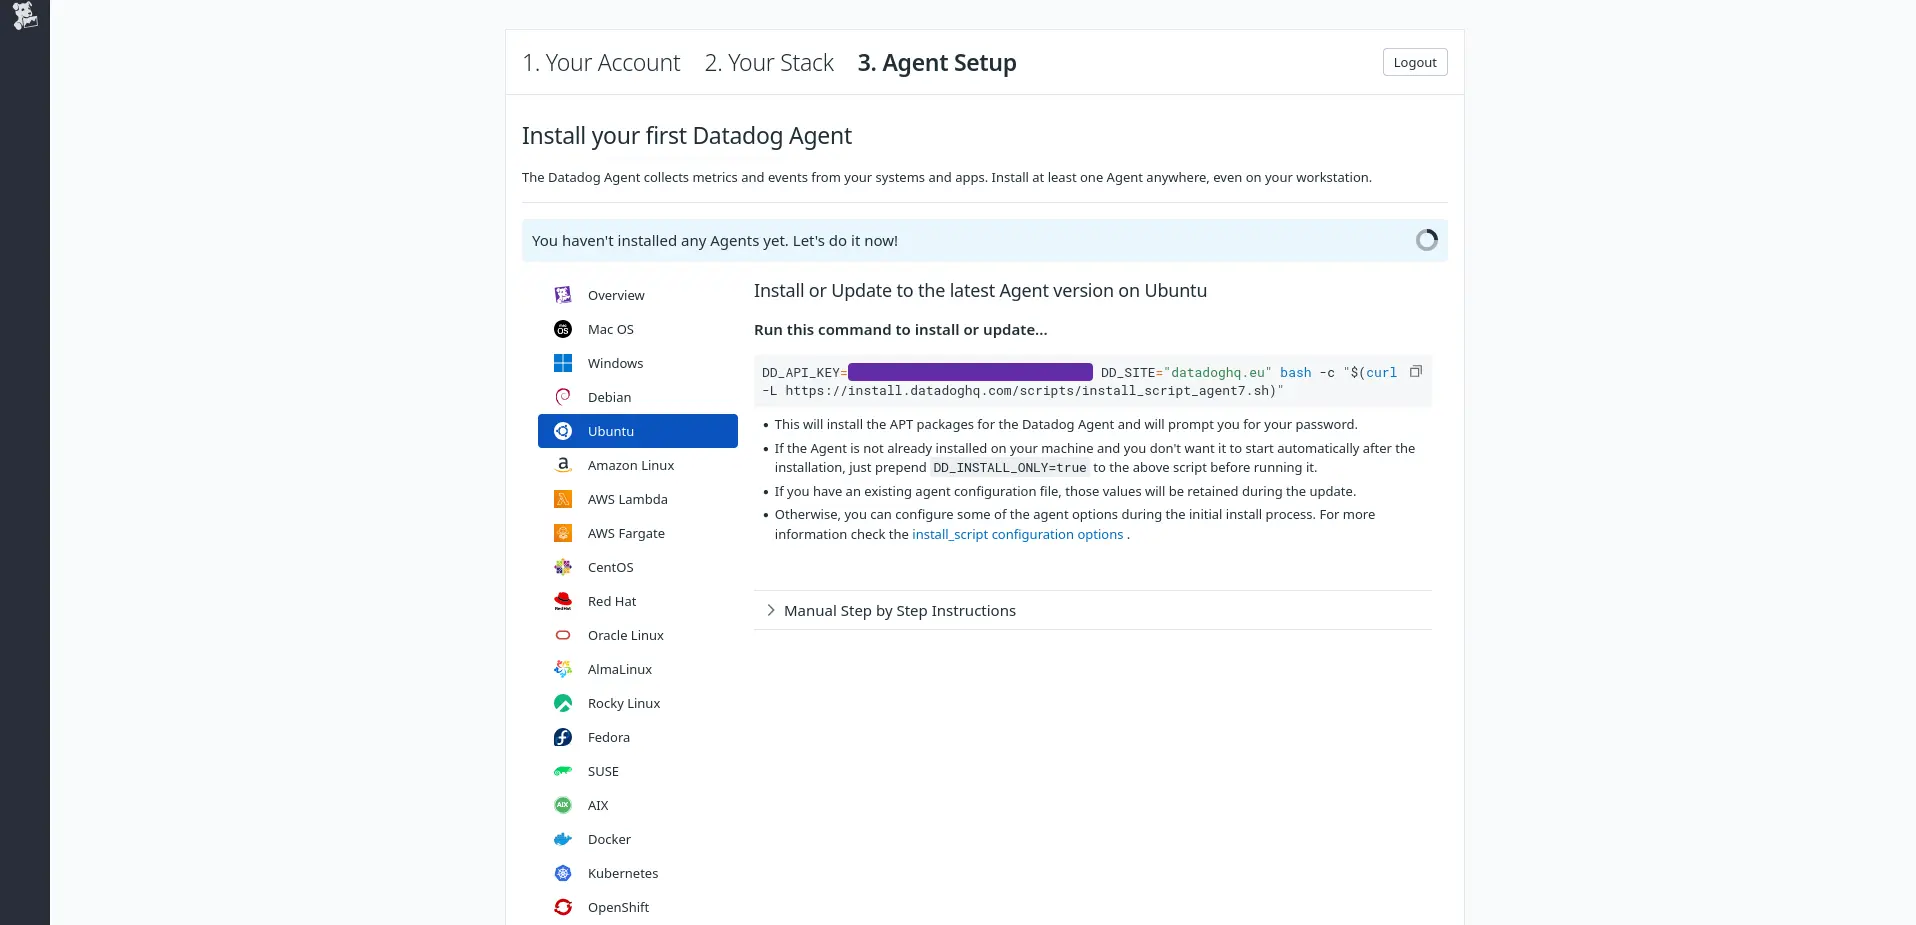
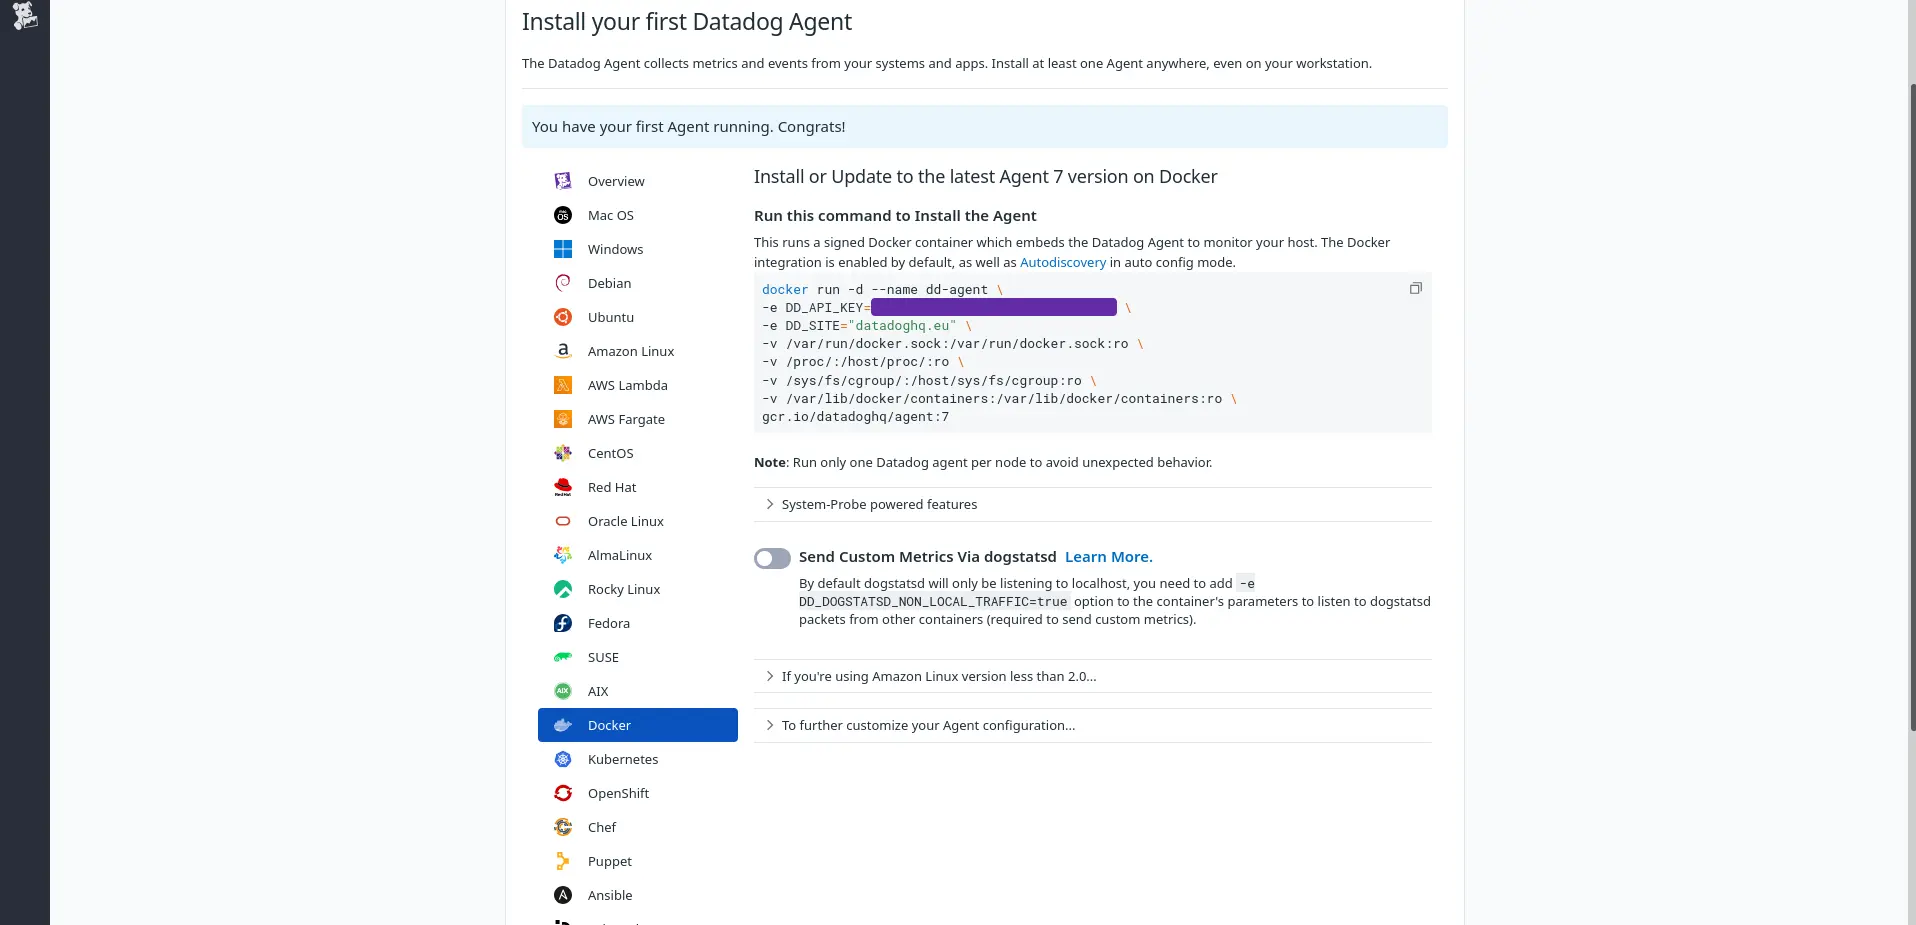
datadog progress

diff --git a/docs/guides/other-guides/monitor-ngrok/monitor-ngrok.md b/docs/guides/other-guides/monitor-ngrok/monitor-ngrok.md
@@ -183,27 +183,25 @@ Before adding an event subscription, you'll need somewhere to send them.
 
 You can enter nonsense for all the fields except your email address, which you need to confirm. You also can't skip step three in the sign up process — creating a DataDog agent somewhere.
 
-- Run the command below to start an Ubuntu Docker container. Then copy and paste terminal command from the DataDog page into the container terminal and run it.
-
-```sh
-docker run --platform=linux/amd64 --rm -it -h testHostname -v ".:/app" -w "/app" ubuntu:24.04 bash
-
-apt update
-apt install apt-transport-https curl gnupg -y
-
-# DD_API_KEY=ec22494 DD_INSTALL_ONLY=true DD_SITE="datadoghq.eu" bash -c "$(curl -L https://install.datadoghq.com/scripts/install_script_agent7.sh)"
-
-service datadog-agent start
-```
-
-/var/log/datadog/agent.log
-```
-2025-03-31 11:10:44 UTC | CORE | ERROR | (comp/aggregator/demultiplexer/demultiplexerimpl/demultiplexer.go:81 in newDemultiplexer) | Error while getting hostname, exiting: unable to reliably determine the host name. You can define one in the agent config file or in your hosts file
-```
-
-- Choose Ubuntu for this step, and note the command they give you.
+- In step three of the DataDog signup, click on **Docker** in the sidebar. Copy and paste the command given into a terminal.
 
 ![Join DataDog](./img/joinDatadog.webp)
+
+- In the DataDog site, click **Finish** at the bottom of the page once the site notices your agent is running.
+
+You no longer need the agent running locally and can remove the DataDog container with the command below if you want.
+
+```sh
+docker stop dd-agent
+docker remove dd-agent
+docker image rm gcr.io/datadoghq/agent:7
+```
+
+- Note which DataDog site you are using by following this [documentation](https://docs.datadoghq.com/getting_started/site/#access-the-datadog-site).
+
+- Note your DataDog API key from the menu at the bottom left of the sidebar where your username is.
+
+![DataDog API key](./img/datadogKey.webp)
 
 - In the ngrok navigation panel, browse to the [**Events Stream**](https://dashboard.ngrok.com/event-subscriptions) and add a new subscription.
 
@@ -214,14 +212,11 @@ service datadog-agent start
 ![Add source](./img/addEventType.webp)
 
 - Add a destination. Choose DataDog.
+- Add your site and API key that you noted earlier.
+- Send a test event.
+- In the DataDog site, browse the **Logs — Explorer** page in the navigation panel. Enable logs. You should see the event from ngrok has appeared.
 
-
-
-TODO
-
-
-https://httpbin.org/get
-https://httpbin.org/#/HTTP_Methods/get_get
+![DataDog logs](./img/datadogLog.webp)
 
 ## Further reading
 
